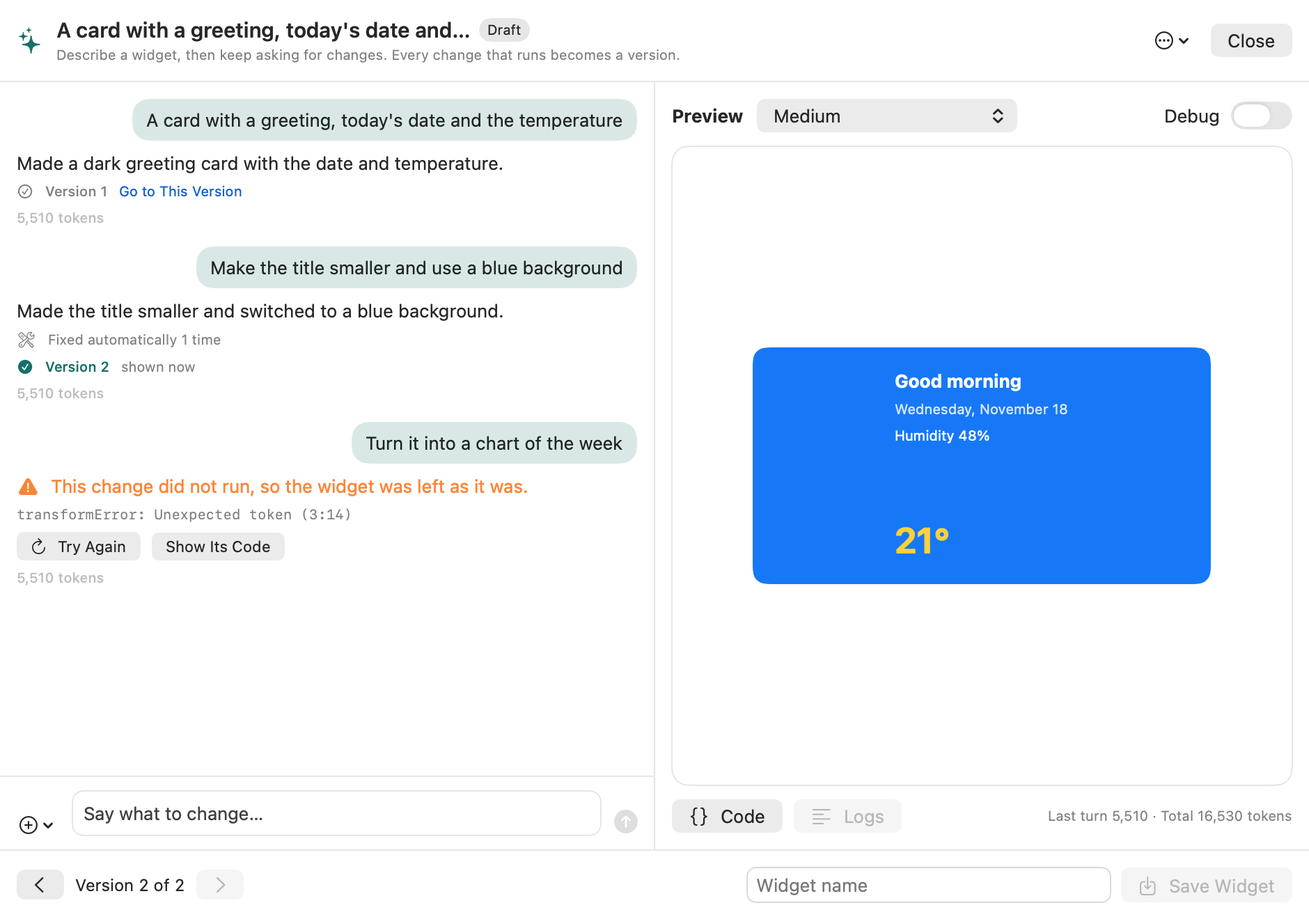
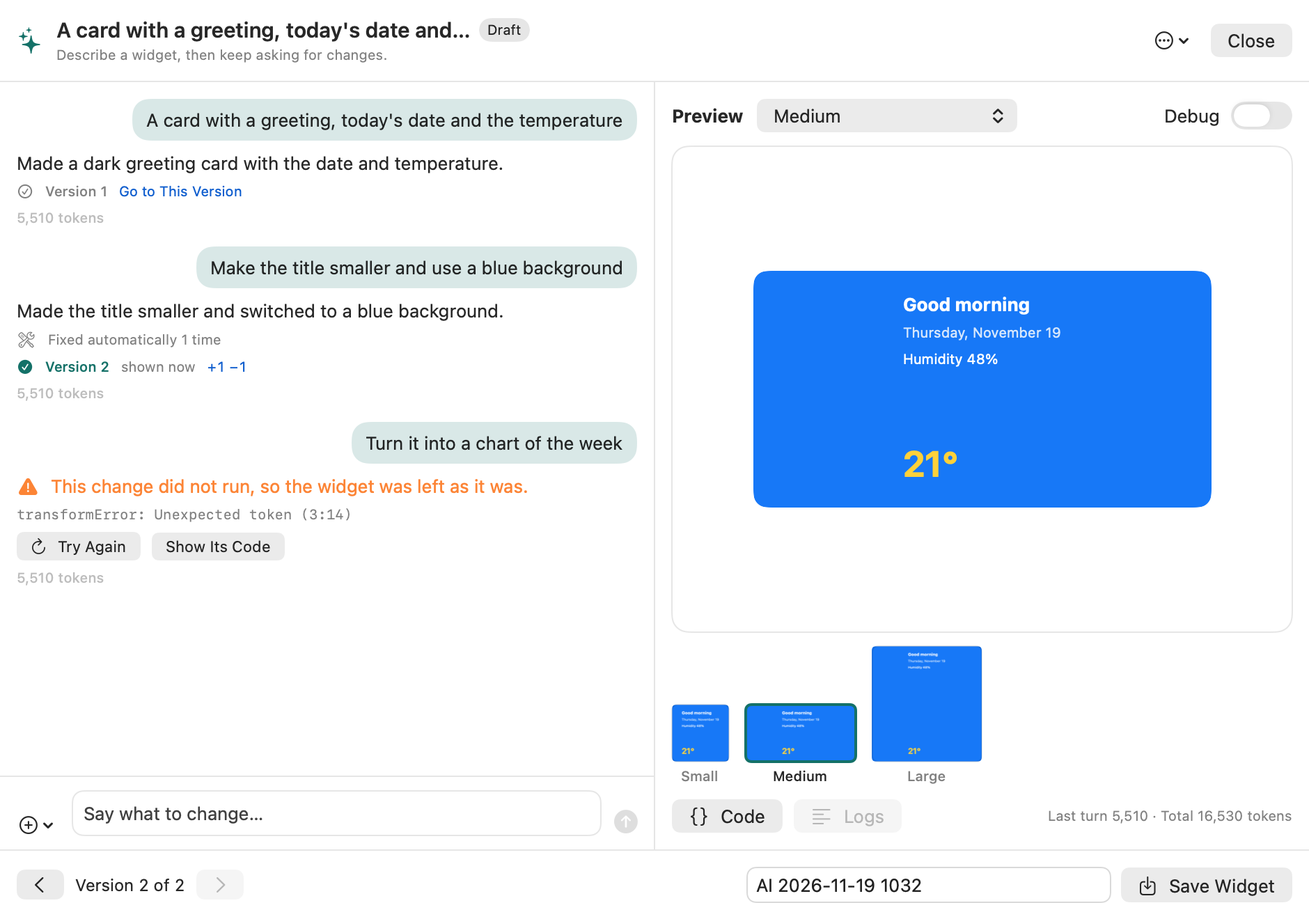
Docs: the conversation on iPhone and iPad, edit replies, the attribute check, changes and the heavy-conversation notice
Also the Android UI test for an edit reply and the changed lines, and what
ran on the Pixel 6.

diff --git a/Android/app/src/androidTest/java/com/everettjf/scriptwidget/AiConversationUiTest.kt b/Android/app/src/androidTest/java/com/everettjf/scriptwidget/AiConversationUiTest.kt
@@ -242,5 +242,20 @@ class AiConversationUiTest {
         assertTrue(applied.files.readText("widget.json")!!.contains("example.org"))
         assertEquals(listOf("network"), applied.permissions)
         picture("14-applied")
+
+        // A small change may come as edit blocks. The version says how many lines it changed, and shows them.
+        replies += "SUMMARY: The time reads 12:45.\n```edit\n<<<<<<< SEARCH\n    <text font=\"title\" color=\"white\">12:30</text>\n=======\n" +
+            "    <text font=\"title\" color=\"white\">12:45</text>\n>>>>>>> REPLACE\n```"
+        ask("Make the time say 12:45")
+        wait(By.text("The time reads 12:45."))
+        assertTrue("the reply form offers edit blocks", requests.last().contains("<<<<<<< SEARCH"))
+        tap(By.descContains("1 lines added, 1 removed"))
+        wait(By.textContains("Changes in version"))
+        wait(By.textContains("12:45</text>"))
+        wait(By.textContains("12:30</text>"))
+        picture("15-changes")
+        tap(By.text("Close"))
+        val edited = AiServices.conversations(context).latest(saved.installation)!!.currentVersion!!.source
+        assertTrue("only that line changed", edited.contains("12:45") && !edited.contains("12:30") && edited.contains("#15803d") && edited.contains("example.org"))
     }
 }

diff --git a/docs/ai-conversation.md b/docs/ai-conversation.md
@@ -1,12 +1,12 @@
 # AI conversation
 
-The AI window of the Mac app is a conversation about one widget: describe it, look at the preview, ask for a change, look again. This page says what it does, what it sends to the AI provider and what it keeps on the Mac. Provider setup is in [AI generation](ai-generate.md).
+Making a widget with AI is a conversation about one widget: describe it, look at the preview, ask for a change, look again. The Mac app, the iPhone and iPad app and the Android app all have it. This page describes the Mac window first, then what differs elsewhere; it says what the conversation does, what it sends to the AI provider and what it keeps on the device. Provider setup is in [AI generation](ai-generate.md).
 
 ![The conversation on the left and the preview on the right; the third turn did not run and the widget stayed at version 2](images/ai-conversation-mac.png)
 
 ![The running app after a session with a local stand-in provider: a repaired turn, a turn left behind, and a change that did not run](images/ai-conversation-mac-live.png)
 
-The Android app has the same conversation on one screen; see [On Android](#on-android). iPhone and iPad still have the earlier single request with a Refine field; the conversation is planned for them and will use the same shared code.
+iPhone and iPad have the same conversation, see [On iPhone and iPad](#on-iphone-and-ipad), and so does the Android app, see [On Android](#on-android).
 
 ## Using it
 
@@ -16,6 +16,8 @@ The Android app has the same conversation on one screen; see [On Android](#on-an
 4. Every change that runs becomes a numbered version. **Go to This Version** under a turn, or the arrows at the bottom, show an older one. Nothing is sent to the provider when you do that.
 5. If you ask for something while an older version is shown, the conversation continues from that version, and the turns after it are marked "left behind" and are no longer sent.
 6. **Save Widget** saves the version on screen as a widget.
+
+A version shows how many lines it added and removed against the one it was made from, as **+3 −2**; a click shows those lines with a little of what is around them. The comparison is made on the device.
 
 While the AI writes, the code appears under the request as it arrives. A provider that can not stream is asked in the plain way instead, and the code appears when it is complete.
 
@@ -50,6 +52,19 @@ The **Copilot** tab of the editor is the conversation about the open widget. A w
 - **Fix Runtime Error** sends the error the editor's preview last reported.
 - The conversation changes the widget's main file. With another file selected, the panel asks you to select the main file.
 
+## On iPhone and iPad
+
+![The conversation on an iPhone: the preview on top, the turns below and the message field at the bottom](images/ai-conversation-iphone.png)
+
+**Generate with AI** under New Widget opens the conversation. It uses the same code as the Mac window and follows the rules on this page, with these differences:
+
+- On an iPhone the preview is on top, the turns are below it and the message field sits above the keyboard. While you type, the preview gets smaller to leave room. On an iPad the conversation is on the left and the preview, with the three sizes under it, on the right.
+- **Save** in the top bar asks for a name, and asks again before saving a widget that uses the network. The **…** menu holds a new conversation, the drafts, Skills, the provider, the code, the logs and deleting the conversation.
+- Conversations are files in the app's own Application Support folder on the device, as on the Mac.
+- The **Copilot** tab of the iPhone and iPad editor is not a conversation yet. It still sends one request for the open widget and shows a proposal to accept.
+
+![The conversation on an iPad: the turns on the left, the preview and the three sizes on the right](images/ai-conversation-ipad.png)
+
 ## On Android
 
 ![The conversation on a phone: the preview and its versions on top, the turns below](images/ai-conversation-android.png)
@@ -57,6 +72,7 @@ The **Copilot** tab of the editor is the conversation about the open widget. A w
 **Generate with AI** under New widget, and **Improve with AI** on a widget's page, open the conversation. It follows the rules on this page with these differences:
 
 - The preview is on top and the turns are below it. The reply appears when it is complete; code is not written out as it arrives.
+- **+1 −1** on a version opens the changed lines, as on the Mac.
 - An installed widget is changed with **Apply to widget**, which asks first and names any host the version adds.
 - There is no editor panel. Code changed in the editor is taken over as a version the next time the conversation opens.
 - Conversations stay in the app's no-backup directory on the device.
@@ -68,11 +84,54 @@ More in the [Android notes](android/README.md#ai-conversation).
 | What happened | What you see |
 |---|---|
 | The code did not run | The AI is told the error and tries again, up to three times. A turn that needed that says "Fixed automatically". |
+| The code uses a tag, an attribute or a value that does not exist | The same: the AI is told which one and what exists instead. See [Tags and attributes that do not exist](#tags-and-attributes-that-do-not-exist). |
+| The AI sent a change that does not fit the code | The same: the AI is told which part did not fit and sends the whole code. See [Changing a part of the code](#changing-a-part-of-the-code). |
 | It still did not run | The widget and the preview stay as they were. The turn shows the error, **Try Again** and **Show Its Code**. |
 | The provider could not be reached or refused | The turn shows the reason and **Retry**. Everything else stays usable. |
 | You pressed Stop (⌘.) | The request ends at once and the widget stays as it was. |
 | The app closed during a turn | The turn is shown as interrupted, with **Send Again**. |
 | No provider is set up | A notice with a button to the AI settings; nothing can be sent. |
+
+## Changing a part of the code
+
+For a small change the AI may send only the places that change, instead of the whole code:
+
+```
+<<<<<<< SEARCH
+lines copied from the current code
+=======
+the lines that replace them
+>>>>>>> REPLACE
+```
+
+- The app puts each block into the current version. The searched lines have to be in the code exactly once. If they are missing, or there more than once, nothing is applied: the AI is told which block did not fit and sends the whole code instead. The app never guesses where a change belongs.
+- What comes out is run and checked like any other reply, with the same limits and permissions. A change that does not run leaves the widget as it was.
+- A new widget, and a repair, are always sent whole.
+
+This makes a small change quicker and cheaper, and keeps the AI from rewriting parts you did not ask about. The **+3 −2** on a version shows what a turn really changed.
+
+## Tags and attributes that do not exist
+
+ScriptWidget ignores an attribute it does not know, and a value outside a fixed list, without an error: `<date style="weekday">` runs and shows the time. The AI would never learn of its mistake. So after a reply ran, the app looks through its code for:
+
+- a tag that ScriptWidget does not have;
+- an attribute that the tag does not have;
+- a value outside a fixed list, for the attributes that have one (`style` of `<date>`, `fontWeight`, `fontDesign`, `clip`, `backgroundMaterial`, `mode` of `<image>`, `axis`, `style` of `<progress>`).
+
+When it finds one, the AI is told what it wrote and what exists, and tries again; this counts as one of the three repairs. On the last attempt a widget that runs is kept as it is.
+
+The check reads the code loosely and stays silent when unsure. A tag that starts with a capital letter is your own component and is not checked, and a value that is computed is not judged. It grants nothing and blocks nothing when a widget runs: the runtime decides that, as before. Its lists are written by `npm run docs` in `Editor/editorfe` from Studio's API metadata and the web renderer's coverage table, and every template and example in the app passes it. The scrolling `<list>` is a tag on Android only.
+
+## When a conversation has grown
+
+A long conversation sends more with every request. Above the message field a line appears when:
+
+- one request now sends about 30,000 tokens or more;
+- the conversation has used 300,000 tokens in all;
+- it holds 30 versions, so the oldest are dropped from now on;
+- it has more than 12 turns, so the oldest are no longer sent.
+
+**Start New From Here** opens a new draft with the version on screen as its first version, the same size and Skills, and no earlier turn to send. The old conversation stays among the drafts.
 
 ## Drafts
 
@@ -104,7 +163,7 @@ The preview package carries a Package 2.0 `widget.json` with no permission, or w
 
 In the editor, the copy runs with the widget's own `widget.json` plus the declared hosts, and a legacy widget without `widget.json` runs as a legacy package, as it does when installed. A `widget.json` that is present but can not be read turns the panel off; it is never treated as absent.
 
-The earlier single request on iPhone and iPad still runs its candidate in a package without `widget.json`.
+The single request of the Copilot tab in the iPhone and iPad editor still runs its candidate in a package without `widget.json`.
 
 ## Limits
 
@@ -118,7 +177,7 @@ The earlier single request on iPhone and iPad still runs its candidate in a pack
 
 ## Not in this version
 
-Targeted edits instead of whole-file replies, a view of what changed between versions, and the iPhone and iPad interface. The [plan](ai-conversation-plan.md) (Chinese) lists them in order.
+A conversation in the Copilot tab of the iPhone and iPad editor, code written out as it arrives on Android, and translations of the conversation's own texts. The [plan](ai-conversation-plan.md) (Chinese) says what was done in which order and what is open.
 
 ## For contributors
 
@@ -126,8 +185,10 @@ Targeted edits instead of whole-file replies, a view of what changed between ver
 - `AIConversationStore.swift`: the files.
 - `AIConversationSession.swift`: the state a view observes; it sends turns through `AgentLoop` in its `turn` mode.
 - `PromptBuilder.userPromptTurn` and `parseTurnReply`: the request and reply format. `AINetworkDeclaration` reads and checks the declaration.
+- `AISourceEdits.swift`: reads and applies edit blocks. `AIJSXCheck.swift` with the generated `AIJSXSurfaceData.swift`: the check for tags and attributes. `AISourceDiff.swift`: the comparison of two versions and its view. The Kotlin ports are `AiSourceEdits`, `AiJsxCheck` and `AiSourceDiff`; a change to one side belongs in the other too.
 - `AIClient.chatStream`: server-sent events, with the fallback to `chat`.
-- `macOS/ScriptWidgetMac/AIGenerate/AIGenerateWindowView.swift`: the window.
+- `macOS/ScriptWidgetMac/AIGenerate/AIGenerateWindowView.swift`: the window. `iOS/ScriptWidget/View/AIGenerate/AIGenerateView.swift`: the iPhone and iPad screen. Both draw the turns with the shared `AIConversationTurnsView.swift`.
 - `Tests/ScriptWidgetRuntimeTests/AIConversationTests.swift`: tests against a stub provider. They need no key and make no network request.
 - `testThreeTurnsAgainstARealProviderWhenConfigured` sends three turns to a real provider when `ROCKY_OPENAI_APIKEY`, `ROCKY_OPENAI_BASEURL` and `ROCKY_OPENAI_MODEL` are set, as in [AI quality testing](ai-quality-testing.md). It costs tokens and is skipped otherwise. `AI_CONVERSATION_LIVE_DIR` names a folder for the three sources and a short report. Pass the key through the environment; never write it into a command or a file of the repository.
-- The picture on this page is written by the same test file when `AI_CONVERSATION_SNAPSHOT_DIR` names a folder (prefix it with `TEST_RUNNER_` for `xcodebuild`). It draws the window with a prepared conversation; it does not click through it.
+- `Scripts/ai-conversation-quality.sh` runs four small conversations against a real provider and reports what each turn changed, missed and cost; see [AI quality testing](ai-quality-testing.md#several-turns).
+- The pictures of the Mac window, the iPhone and the iPad on this page are written by the same test file when `AI_CONVERSATION_SNAPSHOT_DIR` names a folder (prefix it with `TEST_RUNNER_` for `xcodebuild`); the iPhone and iPad ones come from running it on those simulators. They draw the conversation with a prepared one; they do not click through it.

diff --git a/docs/ai-conversation-plan.md b/docs/ai-conversation-plan.md
@@ -1,6 +1,6 @@
-# AI 对话：后续计划
+# AI 对话：计划与进度
 
-更新日期：2026-11-19。状态：计划，第三、四阶段都还没有开始。已经做完的部分见 [AI conversation](ai-conversation.md)。
+更新日期：2026-11-19。状态：第三、四阶段已实现，等待合并；下面“还没有做的”是剩余事项。功能说明见 [AI conversation](ai-conversation.md)。
 
 ## 已完成
 
@@ -11,62 +11,70 @@
 | — | 运行时：以 `//` 注释结尾且没有换行的源码可以编译 | #88 |
 | — | Mac Copilot 面板的界面修正 | #89 |
 | — | Android 的 AI 页面改成同样的对话 | #90 |
+| 3 | 只改局部、属性校验、差异视图、用量提醒、多轮评测（Mac、iPhone、iPad、Android） | 本次 |
+| 4 | iPhone 和 iPad 的对话界面 | 本次 |
 
 验证到的程度：
 
-- Mac：用签名的 Debug 版和真实模型走完了生成、自动修复、带联网确认的保存、Copilot、Apply、手动修改记为版本、重启后恢复。
+- Mac（第一、二阶段）：用签名的 Debug 版和真实模型走完了生成、自动修复、带联网确认的保存、Copilot、Apply、手动修改记为版本、重启后恢复。
+- 第三阶段的逻辑：Swift 和 Kotlin 各有测试，用脚本模型和真实的运行时。**没有用真实模型跑过**：只改局部的实际命中率、属性校验带来的额外修复次数，要等 `Scripts/ai-conversation-quality.sh` 用真实密钥跑一次才知道。
+- iPhone、iPad：页面用测试渲染成图片检查过布局，会话逻辑与 Mac 共用同一套测试，并在 iPhone 和 iPad 模拟器上各跑了一遍。**没有在模拟器或真机上实际点按过**：键盘弹出、横竖屏、保存流程的交互没有验证。
 - Android：JVM 测试和 Pixel 6 上的界面测试通过，界面测试用的是脚本模型。**真实模型在手机上还没有测**，需要所有者自己在 Settings → AI 里填密钥。
 
-## 实测发现、还没有处理的问题
+## 实测发现的问题
 
-1. **每轮都重写整个文件。** 一个小改动显示为“22 行有变化”，慢、费 token，也容易改坏没有要求改的地方。
-2. **模型会编造不存在的属性**，例如 `<date style="weekday">`。运行时不报错，只是显示成别的内容，所以自动修复发现不了。
-3. **Mac 上没有看到逐字输出的文字**，虽然流式请求已经接入。需要确认是提供方没有分段返回，还是界面没有显示。
-4. `LibrarySessionExecutionTests` 里的几个用例在 CI 的慢机器上会超过 5 秒限时，偶发失败。与 AI 无关，但会挡住合并。
+1. **每轮都重写整个文件。** 已处理：见下面 3.1。效果要用真实模型量。
+2. **模型会编造不存在的属性**，例如 `<date style="weekday">`。已处理：见下面 3.2。
+3. **Mac 上没有看到逐字输出的文字**，虽然流式请求已经接入。未处理：需要一个真实提供方才能确认是提供方没有分段返回，还是界面没有显示。
+4. `LibrarySessionExecutionTests` 里的几个用例在 CI 的慢机器上会超过 5 秒限时，偶发失败。未处理：与 AI 无关，但会挡住合并。
 
-## 第三阶段：改得更省、更准、看得清
-
-建议顺序如下，前一项是后一项的前提。
+## 第三阶段：做了什么
 
 ### 3.1 只改局部
 
-- 回复格式增加“修改”形式：若干段“原文 → 新文”，由 App 应用到当前版本的源码上。整文件回复继续支持，第一轮和大改动仍然用它。
-- 应用规则放在共享代码里，Swift 和 Kotlin 各一份，行为一致：原文必须在当前源码中恰好出现一次；找不到或出现多次时这一轮按失败处理并进入修复，不猜测。
-- 应用后的结果和整文件回复走同一条路：同样的校验、同样的运行限制、同样的权限。模型输出仍然是不可信内容。
-- 完成标准：评测里的小改动，变化行数明显少于现在，成功率不下降。
+- 有现成代码的轮次，模型可以用 `<<<<<<< SEARCH` / `=======` / `>>>>>>> REPLACE` 块只回复要改的地方；新 Widget 和修复仍然回复整份代码。
+- 每段原文必须在当前代码里恰好出现一次。找不到或出现多次时整条回复作废，把原因发回模型并要求回复整份代码，不猜测。
+- 应用后的代码和整份回复走同一条路：同样的运行、同样的限制和权限。
+- 代码：`AISourceEdits.swift` 和 `AiSourceEdits.kt`，行为一致，测试互相对照。
 
 ### 3.2 属性校验
 
-- 在运行之前，用编辑器已有的 API 清单（`Editor/editorfe/src/scriptWidgetAPI.js` 对应的数据）检查标签名和属性名，未知的名字作为错误发回模型修复。
-- 只检查名字是否存在，不改变运行时的行为；运行时的 JSX 开关仍然是唯一的依据，清单与它不一致时以运行时为准并修清单。
-- Android 独有的 `<list>` 和 `material.` 颜色要在 Android 的清单里有，否则会被误报。
+- Widget 运行之后，检查代码里的标签名、属性名，以及有固定取值的属性的值。有问题就把“写了什么、实际有什么”发回模型修复；最后一次尝试不拦，能运行的 Widget 保留。
+- 名单由 `npm run docs` 生成：编辑器的 `scriptWidgetAPI.js` 加上网页渲染器的 `coverage.js`（后者的测试保证它覆盖原生代码读取的每个属性）。只有运行时确实按固定名单读取的属性才检查取值。
+- 宁可漏报不误报：首字母大写的标签当作脚本自己的组件，计算出来的值不判断。仓库里所有模板、示例和 Gallery 的 Widget 都通过检查，这一条有测试。
+- Android 独有的 `<list>` 只在 Android 的名单里。`material.` 颜色是取值，不在检查范围内。
+- 代码：`AIJSXCheck.swift` 和 `AiJsxCheck.kt`。
 
 ### 3.3 差异视图
 
-- 每个版本可以查看相对上一版改了哪几行。Mac 先做，放在对话的版本行里；Android 之后做。
-- 差异在本地计算，不发给提供方。
+- 每个版本显示相对上一版增删了几行（“+3 −2”），点开看具体的行和前后各三行。Mac、iPhone、iPad、Android 都有。
+- 在本机计算，不发给提供方。
 
 ### 3.4 用量提醒
 
-- 显示这段对话已经用掉的 token。接近上下文上限或单轮花费明显变大时提示，并建议从当前版本开一段新对话。
-- 历史的裁剪规则保持现在的做法：不在当前路径上的轮次不发送。
+- 单次请求约 30,000 token 以上、整段对话累计 300,000 token、版本满 30 个、轮次超过 12 轮时，在输入框上方提示。
+- “Start New From Here” 从当前版本开一段新对话：只带这一个版本，不带历史。
 
 ### 3.5 多轮评测
 
-- 在现有的 [AI 质量测试](ai-quality-testing.md) 里加入连续几轮修改的题目：生成、改一处、再改一处、回到旧版本再改。
-- 记录每轮的成功与否、修复次数、变化行数和 token，用来比较提示词和模型的改动。
-- 真实提供方的评测只在设置了环境变量时运行，密钥只通过环境变量传入，不写进命令、文件或日志。
+- `Scripts/ai-conversation-quality.sh`：四段小对话（问候卡片、习惯打卡、时钟、中文卡片），共 14 轮，其中一轮先回到旧版本。记录每轮是否通过、修复次数、收发的 token、改动的行数。
+- 同一套流程用脚本回复在常规测试里跑一遍，不需要密钥。
 
-## 第四阶段：iPhone 和 iPad
+## 第四阶段：做了什么
 
-- 用和 Mac 相同的共享代码（`AIConversation`、`AIConversationStore`、`AIConversationSession`），只写界面。
-- iPhone 参考 Android 的一屏布局：预览在上，对话在中，输入框贴着键盘。iPad 参考 Mac 的左右布局。
-- 现有的单次请求加 Refine 的页面在对话可用后移除。
-- 需要在模拟器和真机上验证，包括键盘、横竖屏和小组件扩展的内存不受影响。
+- “Generate with AI” 在 iPhone 和 iPad 上是同一套对话，用的是 Mac 的共享代码（会话、存储、轮次列表）。
+- iPhone：预览在上，对话在中，输入框贴着键盘，打字时预览缩小。iPad：对话在左，预览和三个尺寸在右。
+- 原来“单次请求加 Refine”的两个页面已删除。
 
-## Android 与 Mac 的差距
+## 还没有做的
 
-记在 [`docs/android/TODO.md`](android/TODO.md)：回复不逐字输出、一次只看一个尺寸、编辑器里没有 Copilot。第三阶段的 3.1、3.2 要同时在 Kotlin 里实现。
+- **用真实模型验证第三阶段**：跑一次 `Scripts/ai-conversation-quality.sh`，看通过率和改动行数。需要密钥，由所有者通过环境变量提供。
+- **iPhone、iPad 上实际操作一遍**：键盘、横竖屏、保存和联网确认。
+- **Android 上真实模型的验证**。
+- **iPhone、iPad 编辑器里的 Copilot** 仍然是单次请求加一个待接受的提议，没有改成对话。
+- **Android 的三项差距**：回复不逐字输出、一次只看一个尺寸、编辑器里没有 Copilot。记在 [`docs/android/TODO.md`](android/TODO.md)。
+- **对话界面的文字没有中文翻译**，三个平台都是英文。
+- 上面“实测发现的问题”里的第 3、4 条。
 
 ## 不变的约束
 

diff --git a/docs/ai-quality-testing.md b/docs/ai-quality-testing.md
@@ -19,6 +19,21 @@ Artifacts default to the git-ignored `__Release/ai-quality/<timestamp>/`. Overri
 
 The default CI suite skips the opt-in live test. Deterministic frame and appearance regressions run in the normal suite without a key.
 
+## Several turns
+
+`Scripts/ai-conversation-quality.sh` sends four small conversations to a real provider through the same session the apps use: a greeting card, a habit tracker, a clock, and a card asked for in Chinese. The first turn of each makes a widget; every later turn is a small change, and one goes back to an older version first. It takes the same three variables as above and uses provider tokens: 14 turns, plus repairs.
+
+```sh
+ROCKY_OPENAI_APIKEY="$DEEPSEEK_API_KEY" \
+ROCKY_OPENAI_BASEURL=https://api.deepseek.com \
+ROCKY_OPENAI_MODEL=deepseek-flash \
+./Scripts/ai-conversation-quality.sh
+```
+
+Artifacts go to the git-ignored `__Release/ai-conversation-quality/<timestamp>/`, or to an absolute `AI_CONVERSATION_QUALITY_OUTPUT`: the code after every turn, `conversation-quality.json` and `report.md`. A turn passes when it ran, the code holds the texts the request asked for, no longer holds the ones it asked to remove, and a small request changed no more lines than its limit. The report adds repairs, tokens sent and received, and the changed lines of the later turns as a share of the widget, which is the number to watch when the prompt or the model changes: a model that rewrites the whole widget for "rename this" shows there.
+
+The checks look at the code, not at the picture. A turn that passes can still look wrong; open the saved code in the app to judge that. `testConversationEvalRecordsWhatEachTurnChangedAndMissed` runs the same harness with scripted replies in the normal suite, without a key.
+
 ## Compare without another model call
 
 Replay a prior run's JSX through the current runtime. This separates renderer fixes from randomness in generation and does not require credentials:

diff --git a/docs/android/testing.md b/docs/android/testing.md
@@ -26,6 +26,8 @@ The app was then split into the `play` and `foss` flavors (14 November 2026; see
 
 The AI conversation (19 November 2026) was run on the Pixel 6 only, as a debug copy installed beside the Play Store app (`-PdevSuffix=.dev`): the 502 JVM tests passed, both flavors built, and the app suite passed (66 tests; the live-model, push-wait and picked-folder tests skipped). Two of them are new: `AiConversationUiTest` drives the real screen with the real runtime and a scripted model through making a widget, a repaired change, a network widget, a change that never runs, an older version, saving, improving the saved widget and applying with a new host, and through Stop, Send again and drafts. It saves a picture of each step under the app's external files. The conversation was not run with a live model on a device: that copy has no key. The core device suite was not rerun; the core change is covered by JVM tests. The emulators were not used.
 
+Edit replies, the check for tags and attributes that do not exist, the changed lines of a version and the heavy-conversation notice (19 November 2026) were run the same way, on the Pixel 6 with the `.dev` copy: the 519 JVM tests passed, both flavors built, and the app suite passed (66 tests, with the same three kinds skipped). `AiConversationUiTest` now ends with a turn answered as an edit block and opens the changed lines of that version. `AiJsxCheckTest` runs the check over every template, example and Gallery widget in the repository and finds nothing. Again no live model was used on the device, the core device suite was not rerun and the emulators were not used.
+
 | Device | Android | Core | App |
 | --- | --- | --- | --- |
 | Pixel 6 (physical) | 17 (API 37) | 27 passed (the example.com fetch check was skipped on the last run: the site answered 403; it had returned 200 on earlier runs) | 56 passed |

diff --git a/docs/android/README.md b/docs/android/README.md
@@ -185,6 +185,10 @@ The three bundled examples are under Templates → Android only: Scrolling Check
 - A conversation belongs to a widget by its installation, so it follows a rename and is deleted with the widget. Code changed elsewhere (the editor, a Gallery update) is taken over as a version the next time the conversation opens.
 - Conversations that are not saved as a widget are drafts, offered under **Continue a draft**. All conversations are files in the app's no-backup directory: they stay on the device and are not part of a device backup. They hold requests, notes and widget sources, never a key or a provider.
 - Enabled Skills are read when a request is sent.
+- A version shows how many lines it added and removed, and a tap shows them. A small change may arrive as edit blocks, and a tag, attribute or value that does not exist is sent back to the model; both work as described in [AI conversation](../ai-conversation.md#changing-a-part-of-the-code). The check knows `<list>` on Android.
+- A conversation that has grown heavy says so above the request field and offers **Start new from here**.
+
+![The changed lines of a version](../images/ai-conversation-android-changes.png)
 - The Mac app's editor panel, the three sizes side by side and the list of providers are not on Android: there is one provider profile at a time, chosen in Settings → AI.
 
 ### Synced documents and iPhone

diff --git a/docs/android/TODO.md b/docs/android/TODO.md
@@ -45,7 +45,8 @@ Scrolling lists, wallpaper colors and the automation entry point are done; see [
 
 
 - The AI conversation does not write code out as it arrives, shows one size at a time and has no place in the editor yet; the Mac app has all three.
-- AI generation and the Studio completions do not know `<list>` and the `material.` colors yet; the reference they use is the iOS one.
+- AI generation and the Studio completions do not know `<list>` and the `material.` colors yet; the reference they use is the iOS one. (The check for tags that do not exist does accept `<list>` on Android.)
+- Edit replies, the attribute check, the changed lines and the heavy-conversation notice have not been run with a live model on a device; see `docs/ai-conversation-plan.md`.
 - A way for a script to hand data to an action (a row's own identifier), so a list row can do more than toggle a stored value.
 - Sending broadcasts from a script to automation apps, after a separate security review.
 - Faster refresh with exact alarms or a foreground service, at a battery and permission cost.
